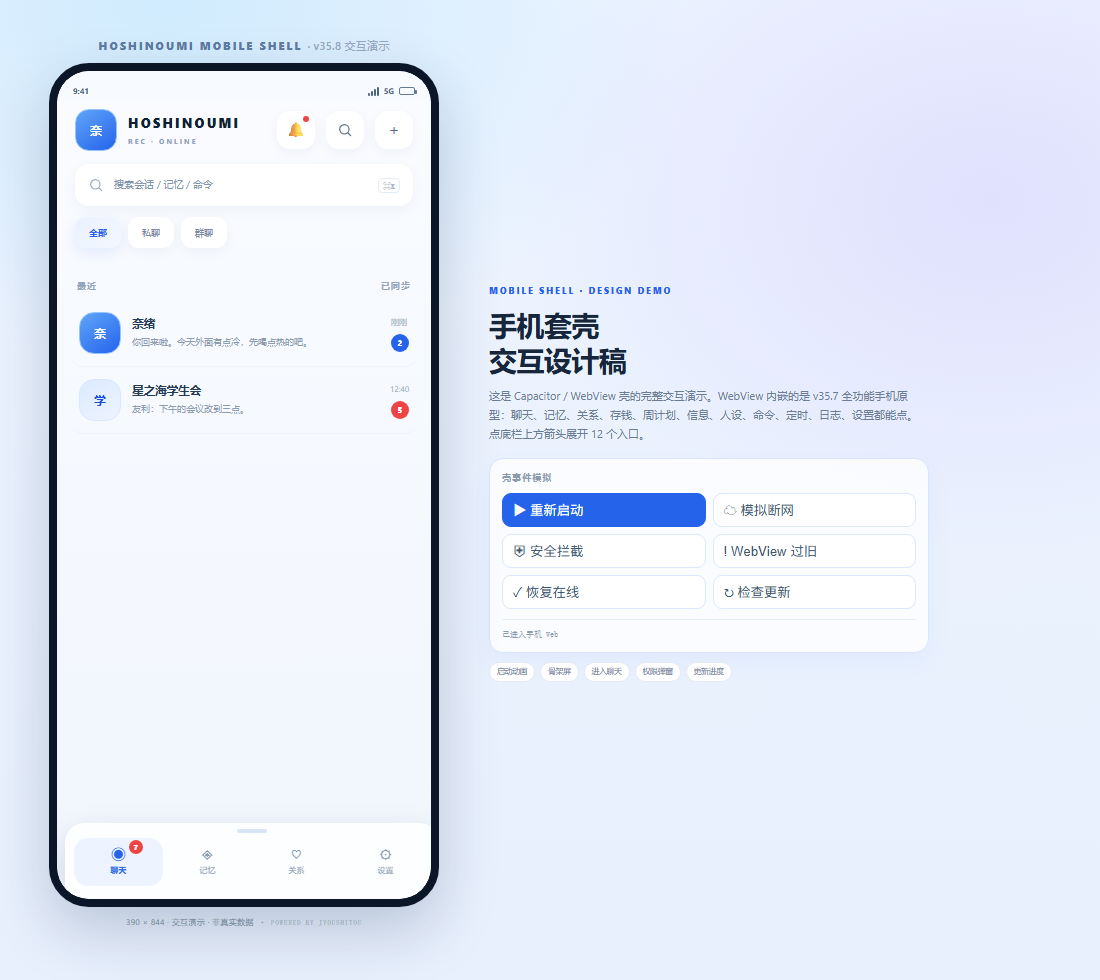
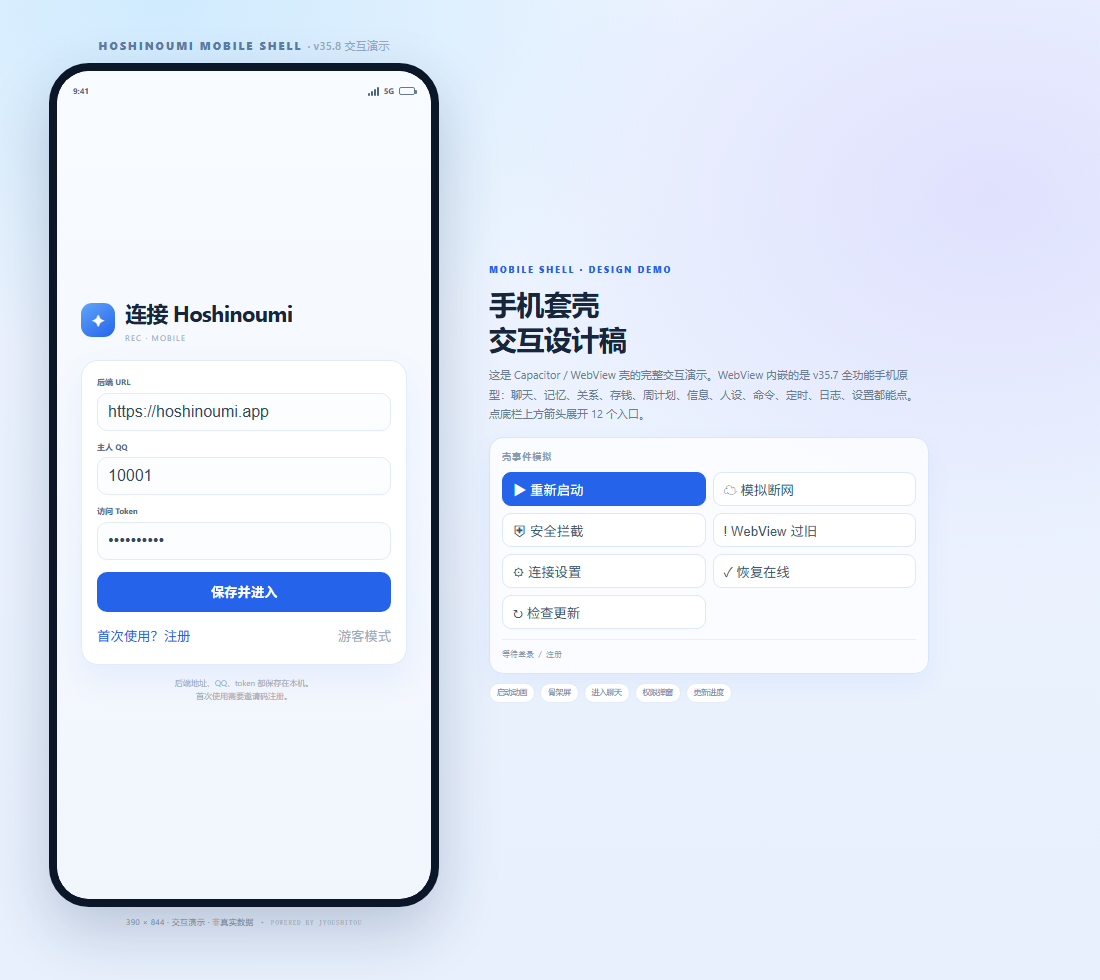
design(v35.8): 首次登录/注册与连接设置

diff --git a/docs/design/v35/mobile/hoshinoumi-mobile-shell-v35.8-demo.html b/docs/design/v35/mobile/hoshinoumi-mobile-shell-v35.8-demo.html
@@ -53,6 +53,15 @@ body{margin:0;min-height:100vh;background:radial-gradient(900px 600px at 15% 0%,
 .code{border:1px dashed #d7e6ff;background:#f4f9ff;border-radius:9px;padding:9px;font:8px ui-monospace,monospace;color:#7890aa;line-height:1.7;margin-top:1px}
 .note{font-size:8px;color:#9aabc0;text-align:center;line-height:1.6;padding:9px 0 0}
 .settings-row{display:flex;align-items:center;gap:9px;padding:10px 0;border-bottom:1px solid #f1f5fb}.settings-row:last-child{border-bottom:0}.settings-row .si{width:28px;height:28px;border-radius:8px;background:#eef4ff;color:#2563eb;display:grid;place-items:center;font-size:12px;flex:none}.settings-row .st{flex:1}.settings-row b{display:block;font-size:9.5px;color:#314a65}.settings-row small{display:block;font-size:8px;color:#9aabc0;margin-top:2px}.settings-row em{font-size:8px;color:#8a9bb0;font-style:normal}
+
+.login-scene{background:linear-gradient(180deg,#f8fbff,#f1f6fd);overflow-y:auto}
+.login-wrap{flex:1;display:flex;flex-direction:column;justify-content:center;padding:22px 24px;min-height:0}
+.login-brand{display:flex;align-items:center;gap:10px;margin-bottom:16px}.login-brand .app-mark{width:34px;height:34px;border-radius:11px;font-size:15px}.login-brand h2{margin:0;font-size:22px;letter-spacing:-.03em}.login-brand p{margin:2px 0 0;font-size:8px;color:#9aabc0;letter-spacing:.14em}
+.login-card{background:#fff;border:1px solid #e3ebf7;border-radius:17px;padding:15px;box-shadow:0 14px 34px rgba(37,99,235,.07)}
+.field{display:block;margin-bottom:10px}.field label{display:block;font-size:8px;font-weight:650;color:#536b86;margin-bottom:4px}.field input{width:100%;height:38px;border:1px solid #e3ebf7;border-radius:10px;background:#fbfdff;padding:0 10px;font-size:16px;color:#314a65;outline:0}.field input:focus{border-color:#93c5fd;box-shadow:0 0 0 3px rgba(37,99,235,.07)}
+.login-submit{width:100%;height:40px;border:0;border-radius:10px;background:#2563eb;color:#fff;font:10px inherit;font-weight:700;margin-top:2px}.login-links{display:flex;justify-content:space-between;gap:8px;margin-top:10px}.login-link{border:0;background:none;color:#2563eb;font:8.5px inherit;padding:4px 0}.login-link.muted{color:#9aabc0}
+.login-error{color:#b91c1c;background:#fff5f5;border:1px solid #fecaca;border-radius:8px;padding:6px 8px;font-size:8px;line-height:1.6;margin-bottom:8px}.login-note{font-size:8px;color:#9aabc0;line-height:1.7;text-align:center;margin-top:11px}
+.set-card{background:#fff;border-radius:18px;padding:16px;box-shadow:0 24px 60px rgba(15,38,78,.28);width:100%;animation:modal-in .22s cubic-bezier(.2,.8,.2,1) both}.set-card h3{margin:0 0 3px;font-size:14px}.set-card .sub{font-size:8px;color:#9aabc0;margin:0 0 11px}.set-status{display:flex;align-items:center;gap:5px;font-size:8px;color:#1f9d6b;background:#eefbf5;border:1px solid #cdeee0;border-radius:7px;padding:5px 7px;margin-bottom:10px}.set-card .actions{display:grid;grid-template-columns:1fr 1fr;gap:7px;margin-top:8px}
 /* modal */
 .modal-layer{position:absolute;inset:0;z-index:20;display:none;align-items:center;justify-content:center;padding:20px;background:rgba(9,22,40,.36);backdrop-filter:blur(2px)}.modal-layer.on{display:flex;animation:fade-in .18s ease both}@keyframes fade-in{from{opacity:0}to{opacity:1}}.modal{width:100%;background:#fff;border-radius:19px;padding:16px;box-shadow:0 24px 60px rgba(15,38,78,.28);animation:modal-in .22s cubic-bezier(.2,.8,.2,1) both;position:relative}@keyframes modal-in{from{opacity:0;transform:translateY(8px) scale(.98)}to{opacity:1;transform:none}}
 .modal h3{margin:0 34px 4px 0;font-size:15px}.modal .desc{margin:0 0 11px;color:#8a9bb0;font-size:9px;line-height:1.7}.modal .x{position:absolute;right:12px;top:12px;width:24px;height:24px;border:0;border-radius:50%;background:#f4f8ff;color:#71859d;font-size:13px}.modal-actions{display:flex;gap:7px;margin-top:11px}.modal-actions .new-btn{flex:1}
@@ -86,6 +95,23 @@ body{margin:0;min-height:100vh;background:radial-gradient(900px 600px at 15% 0%,
         <div class="load-note">正在打开 Hoshinoumi…</div>
       </section>
 
+      <!-- LOGIN -->
+      <section class="scene login-scene" id="scene-login">
+        <div class="statusbar"><span>9:41</span><div class="right"><span class="sig"><i></i><i></i><i></i><i></i></span><span>5G</span><div class="battery"></div></div></div>
+        <div class="login-wrap">
+          <div class="login-brand"><div class="app-mark">✦</div><div><h2>连接 Hoshinoumi</h2><p>REC · MOBILE</p></div></div>
+          <div class="login-card">
+            <div class="login-error" id="loginError" style="display:none"></div>
+            <div class="field"><label>后端 URL</label><input id="loginBase" value="https://hoshinoumi.app" inputmode="url" autocomplete="url"></div>
+            <div class="field"><label>主人 QQ</label><input id="loginQQ" value="10001" inputmode="numeric" placeholder="输入主人 QQ"></div>
+            <div class="field"><label>访问 Token</label><input id="loginToken" type="password" value="demo-token" placeholder="Bearer token"></div>
+            <button class="login-submit" onclick="submitLogin()">保存并进入</button>
+            <div class="login-links"><button class="login-link" onclick="openRegister()">首次使用？注册</button><button class="login-link muted" onclick="enterWeb('游客')">游客模式</button></div>
+          </div>
+          <div class="login-note">后端地址、QQ、token 都保存在本机。<br>首次使用需要邀请码注册。</div>
+        </div>
+      </section>
+
       <!-- WEB / 完整手机应用原型 -->
       <section class="scene" id="scene-web">
         <div class="statusbar"><span>9:41</span><div class="right"><span class="sig"><i></i><i></i><i></i><i></i></span><span>5G</span><div class="battery"></div></div></div>
@@ -98,7 +124,7 @@ body{margin:0;min-height:100vh;background:radial-gradient(900px 600px at 15% 0%,
         <div class="app-head"><div class="app-mark">✦</div><div class="app-name">HOSHINOUMI<small>OFFLINE</small></div><span class="pill">离线</span></div>
         <div class="error-page"><div class="error-center"><div class="orb">☁</div><h3>连不上 Hoshinoumi</h3><p>检查网络或后端地址。<br>已经有本地缓存的页面不会丢失。</p></div>
           <div class="detail"><div class="row"><span>目标地址</span><b>hoshinoumi.app</b></div><div class="row"><span>WebView</span><b>Chrome 130</b></div><div class="row"><span>错误</span><b class="err">ERR_CONNECTION_TIMED_OUT</b></div></div>
-          <div class="actions"><button class="new-btn" onclick="openSystemSettings()">打开设置</button><button class="new-btn primary" onclick="retry()">重试</button></div><div class="note">断网不伪造内容；重试只重新加载 WebView。</div>
+          <div class="actions"><button class="new-btn" onclick="openSettings()">打开设置</button><button class="new-btn primary" onclick="retry()">重试</button></div><div class="note">断网不伪造内容；重试只重新加载 WebView。</div>
         </div>
       </section>
 
@@ -156,15 +182,28 @@ body{margin:0;min-height:100vh;background:radial-gradient(900px 600px at 15% 0%,
       <div class="modal-layer" id="modal-update" onclick="if(event.target===this)closeModal()"><div class="modal"><button class="x" onclick="closeModal()">×</button><h3>发现新版本 v35.8.1</h3><div class="desc">手机套壳稳定性更新，建议安装。</div><div class="update-notes"><p>· 修复键盘弹起时输入框被遮挡</p><p>· 优化 WebView 返回键</p><p>· 提醒弹窗确认同步后端</p></div><div class="progress"><i id="update-bar"></i></div><div class="prog-label"><span id="update-state">正在下载</span><span id="update-percent">0%</span></div><div class="modal-actions"><button class="new-btn" onclick="closeModal();toast('已稍后提醒')">稍后</button><button class="new-btn primary" id="update-action" onclick="installUpdate()">下载并安装</button></div></div></div>
 
       <div class="modal-layer" id="modal-settings" onclick="if(event.target===this)closeModal()">
-        <div class="os-sheet">
-          <div class="os-head">系统设置（演示）</div>
-          <div class="os-body" style="text-align:left;padding:0 15px 6px">
-            <div class="settings-row"><span class="si">⌁</span><span class="st"><b>Wi-Fi</b><small>Hoshinoumi-Home</small></span><em>已连接</em></div>
-            <div class="settings-row"><span class="si">◫</span><span class="st"><b>移动网络</b><small>5G · 中国移动</small></span><em>开启</em></div>
-            <div class="settings-row"><span class="si">◉</span><span class="st"><b>应用权限</b><small>相机 / 麦克风 / 照片</small></span><em>管理</em></div>
-            <div class="settings-row"><span class="si">▣</span><span class="st"><b>WebView</b><small>Android System WebView</small></span><em>已更新</em></div>
-          </div>
-          <div class="os-actions one"><button onclick="closeModal()">完成</button></div>
+        <div class="set-card">
+          <h3>设置 · 连接</h3>
+          <p class="sub">配置后端地址、主人 QQ 和访问 token。</p>
+          <div class="set-status"><span class="dot ok" style="display:inline-block"></span>当前已连接 · hoshinoumi.app</div>
+          <div class="field"><label>后端 URL</label><input id="settingsBase" value="https://hoshinoumi.app" inputmode="url"></div>
+          <div class="field"><label>主人 QQ</label><input id="settingsQQ" value="10001" inputmode="numeric"></div>
+          <div class="field"><label>访问 Token</label><input id="settingsToken" type="password" value="demo-token"></div>
+          <div class="actions"><button class="new-btn" onclick="testConnection()">测试连接</button><button class="new-btn primary" onclick="saveSettings()">保存</button></div>
+          <div class="login-links"><button class="login-link" onclick="openRegister()">注册新账号</button><button class="login-link muted" onclick="closeModal()">关闭</button></div>
+        </div>
+      </div>
+
+      <div class="modal-layer" id="modal-register" onclick="if(event.target===this)closeModal()">
+        <div class="set-card">
+          <h3>首次使用 · 注册</h3>
+          <p class="sub">需要邀请码。注册成功后用 QQ + 密码登录。</p>
+          <div class="login-error" id="registerError" style="display:none"></div>
+          <div class="field"><label>邀请码</label><input id="regInvite" value="HOSHI-2026"></div>
+          <div class="field"><label>QQ 号</label><input id="regQQ" value="10002" inputmode="numeric"></div>
+          <div class="field"><label>昵称</label><input id="regName" value="新用户"></div>
+          <div class="field"><label>密码（至少 8 位）</label><input id="regPassword" type="password" value="demo12345"></div>
+          <div class="actions"><button class="new-btn" onclick="backToLogin()">返回登录</button><button class="new-btn primary" onclick="submitRegister()">注册并连接</button></div>
         </div>
       </div>
 
@@ -182,6 +221,7 @@ body{margin:0;min-height:100vh;background:radial-gradient(900px 600px at 15% 0%,
       <button onclick="go('offline')">☁ 模拟断网</button>
       <button onclick="go('host')">⛨ 安全拦截</button>
       <button onclick="go('webview')">! WebView 过旧</button>
+      <button onclick="openSettings()">⚙ 连接设置</button>
       <button onclick="go('web');toast('已恢复在线')">✓ 恢复在线</button>
       <button onclick="openModal('update')">↻ 检查更新</button>
     </div><div class="log" id="log">准备启动…</div></div>
@@ -190,7 +230,7 @@ body{margin:0;min-height:100vh;background:radial-gradient(900px 600px at 15% 0%,
 </div>
 
 <script>
-const scenes = ['splash','loading','web','offline','host','webview','chat','group']
+const scenes = ['splash','loading','login','web','offline','host','webview','chat','group']
 const logEl = document.getElementById('log')
 let bootTimers = []
 let updateTimer = null
@@ -204,7 +244,7 @@ function go(id){ closeModal(); show(id); log('壳事件：' + id) }
 function boot(){
   closeModal(); clearBoot(); show('splash'); log('启动中：Splash → Loading → WebView')
   bootTimers.push(setTimeout(()=>{ show('loading'); log('WebView 加载中…') }, 1500))
-  bootTimers.push(setTimeout(()=>{ show('web'); log('已进入手机 Web') }, 2900))
+  bootTimers.push(setTimeout(()=>{ show('login'); log('等待登录 / 注册') }, 2900))
 }
 function openGroupChat(){
   closeModal(); show('group'); log('进入群聊：星之海学生会')
@@ -249,10 +289,38 @@ function sendChat(){
   toast('已发送（演示）')
 }
 function retry(){ clearBoot(); show('loading'); log('重试中…'); bootTimers.push(setTimeout(()=>{ show('web'); log('恢复在线') }, 1100)) }
-function openSystemSettings(){
-  closeModal()
-  document.getElementById('modal-settings')?.classList.add('on')
-  log('模拟系统设置：网络 / 权限 / WebView')
+function enterWeb(mode = '已登录'){ closeModal(); show('web'); log(mode + '：进入手机 Web') }
+function submitLogin(){
+  const base = document.getElementById('loginBase')?.value.trim() || ''
+  const qq = document.getElementById('loginQQ')?.value.trim() || ''
+  const token = document.getElementById('loginToken')?.value.trim() || ''
+  const error = document.getElementById('loginError')
+  if(!/^https?:\/\//.test(base)){ if(error){error.style.display='block';error.textContent='后端 URL 需要以 http:// 或 https:// 开头'} return }
+  if(!qq || !token){ if(error){error.style.display='block';error.textContent='QQ 和访问 token 都要填写'} return }
+  if(error) error.style.display = 'none'
+  toast('已保存连接配置（演示）')
+  enterWeb('已登录')
+}
+function openRegister(){
+  closeModal(); document.getElementById('modal-register')?.classList.add('on'); log('首次使用：注册')
+}
+function backToLogin(){ closeModal(); show('login'); log('返回登录') }
+function submitRegister(){
+  const invite = document.getElementById('regInvite')?.value.trim() || ''
+  const qq = document.getElementById('regQQ')?.value.trim() || ''
+  const password = document.getElementById('regPassword')?.value || ''
+  const error = document.getElementById('registerError')
+  if(!invite || !qq || password.length < 8){ if(error){error.style.display='block';error.textContent='邀请码、QQ、至少 8 位密码都要填'} return }
+  closeModal(); toast('注册成功（演示）'); enterWeb('注册成功')
+}
+function openSettings(){
+  closeModal(); document.getElementById('modal-settings')?.classList.add('on'); log('打开连接设置')
+}
+function testConnection(){ toast('连接测试成功（演示）'); log('测试连接：200 OK') }
+function saveSettings(){
+  const base = document.getElementById('settingsBase')?.value.trim() || ''
+  if(!/^https?:\/\//.test(base)){ toast('后端 URL 格式不对'); return }
+  closeModal(); toast('连接设置已保存（演示）'); log('保存后端 URL / QQ / token')
 }
 function openModal(name){
   closeModal()

diff --git a/docs/design/v35/mobile/SHELL-v35.8.md b/docs/design/v35/mobile/SHELL-v35.8.md
@@ -8,6 +8,16 @@
 - [静态设计稿 HTML](hoshinoumi-mobile-shell-v35.8.html)
 - [hoshinoumi-mobile-shell-v35.8.png](hoshinoumi-mobile-shell-v35.8.png)
 
+## 交互演示范围
+
+```text
+启动动画 / 加载 / 登录
+首次使用邀请码注册
+后端 URL / QQ / token 连接设置
+WebView 内 v35.7 全功能页面
+断网 / 安全拦截 / 权限 / 更新 / 自检
+```
+
 ## 1. 架构
 
 ```text
